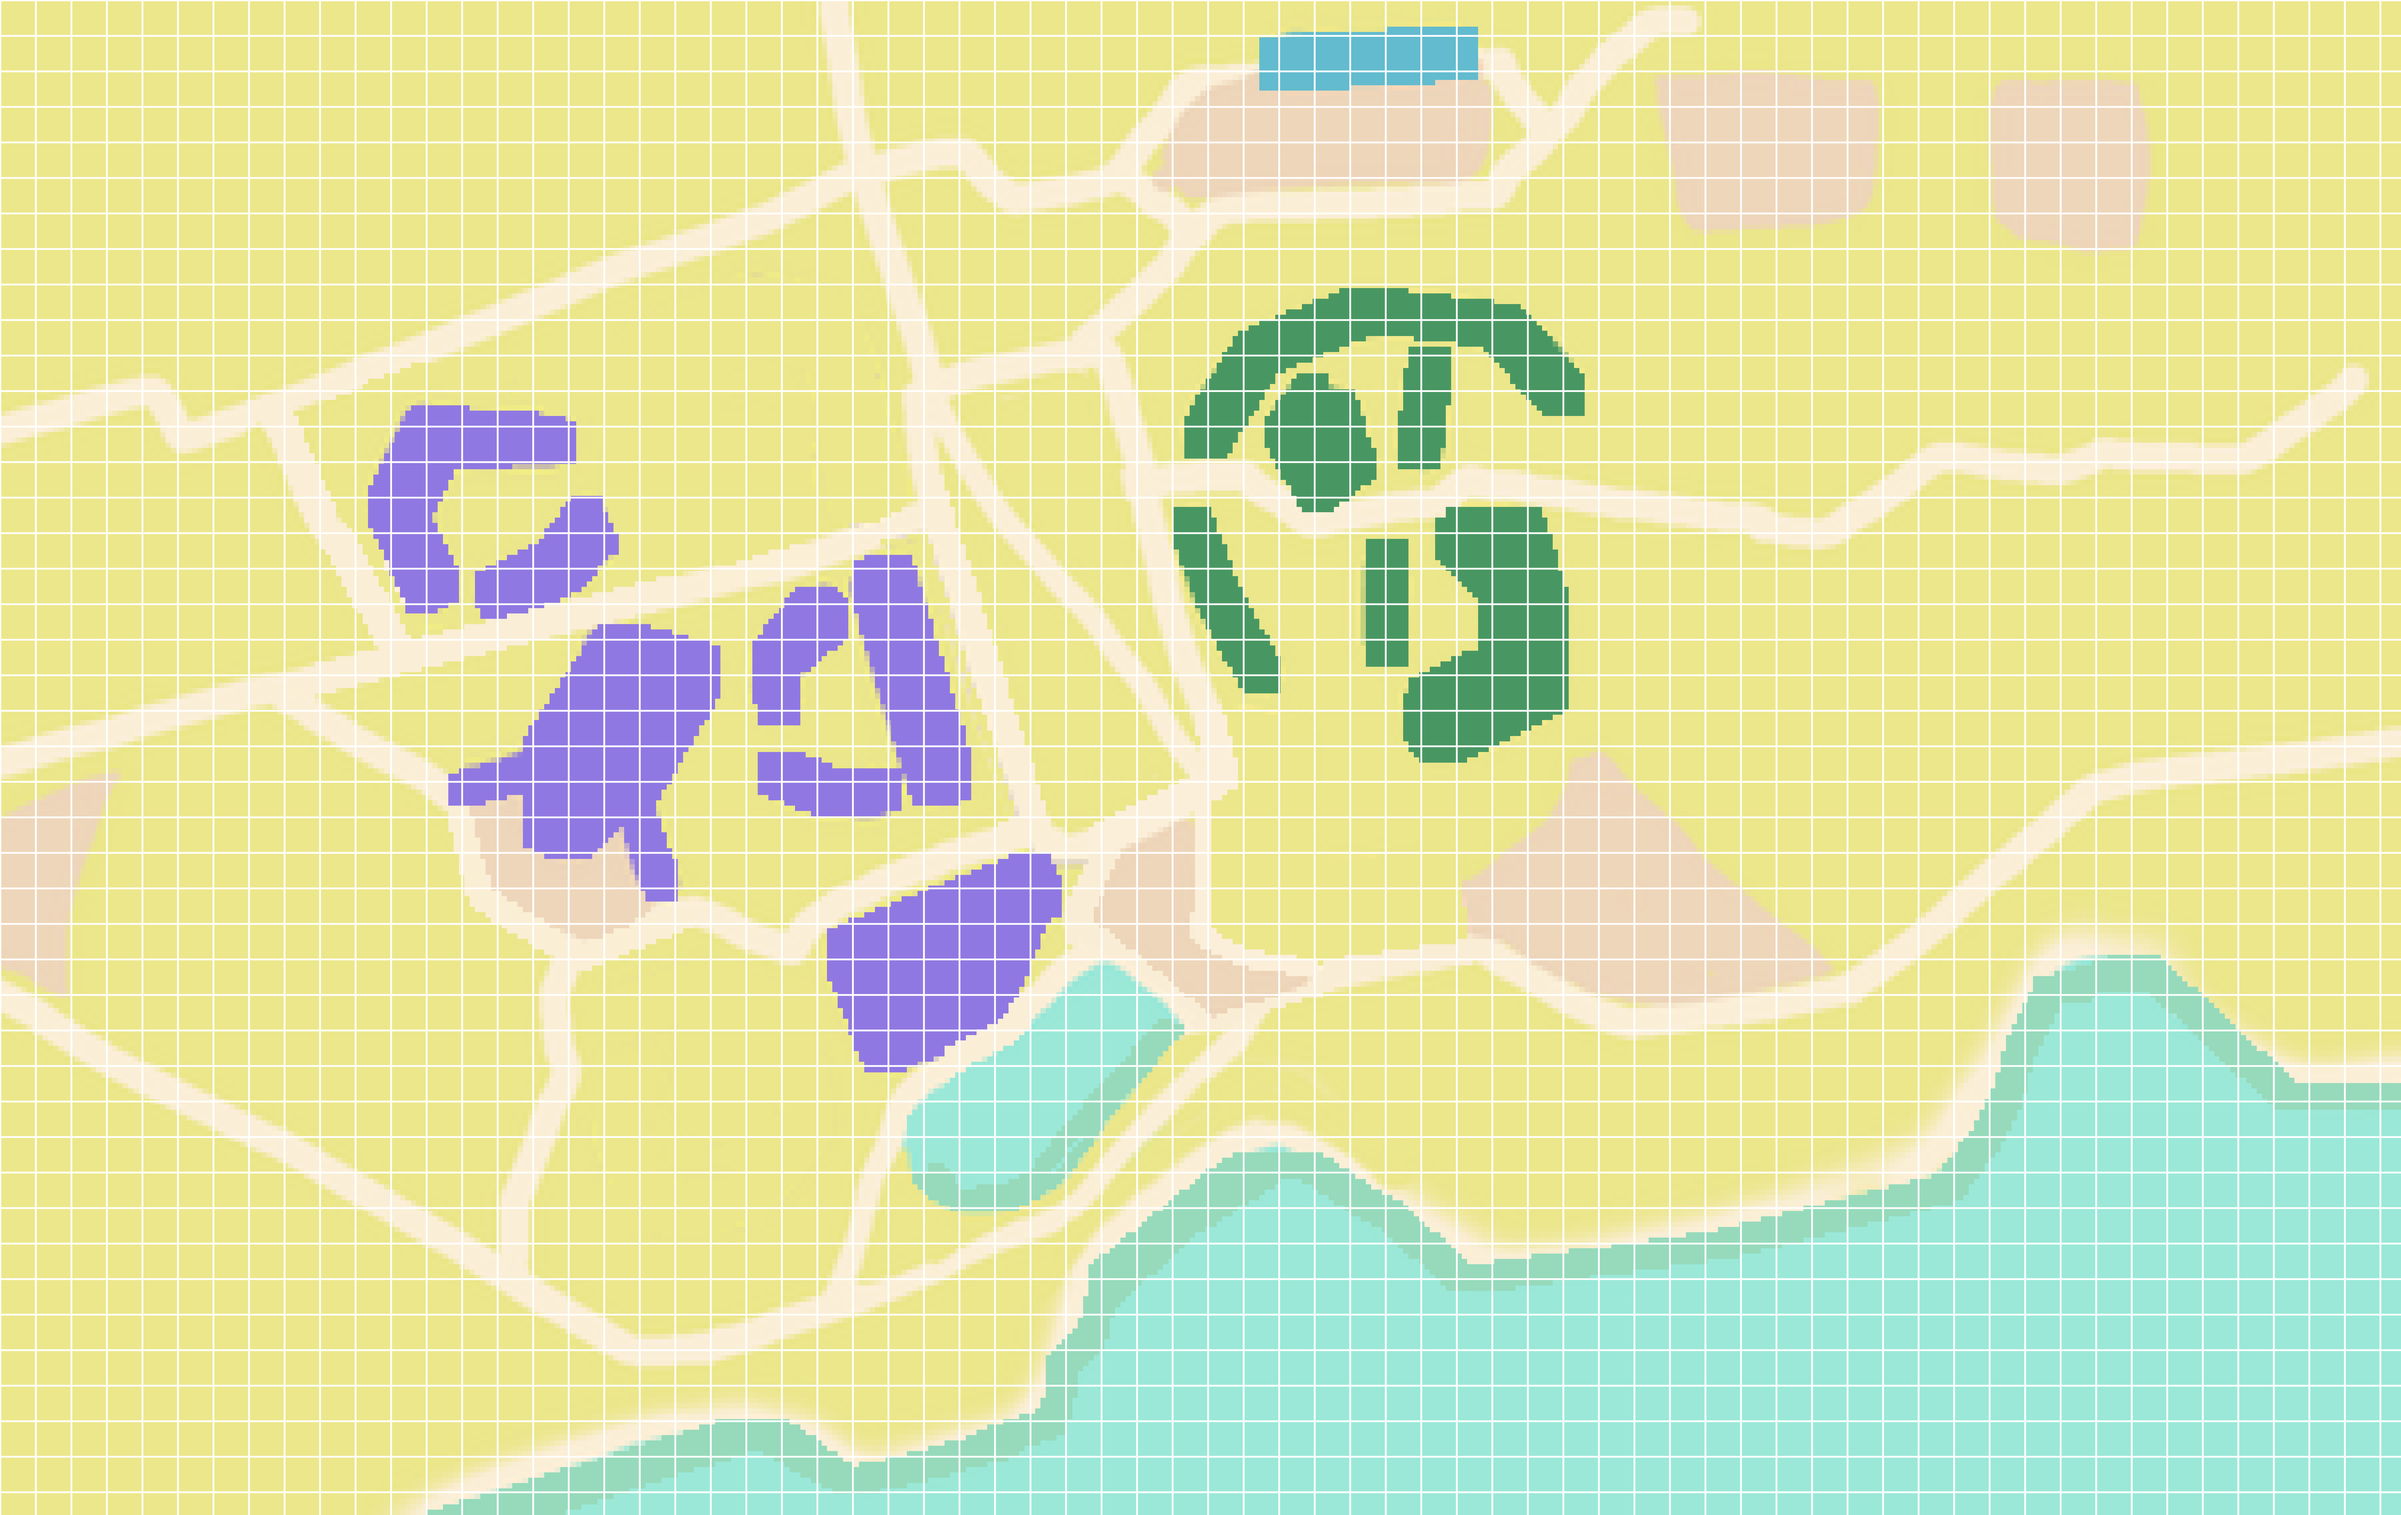
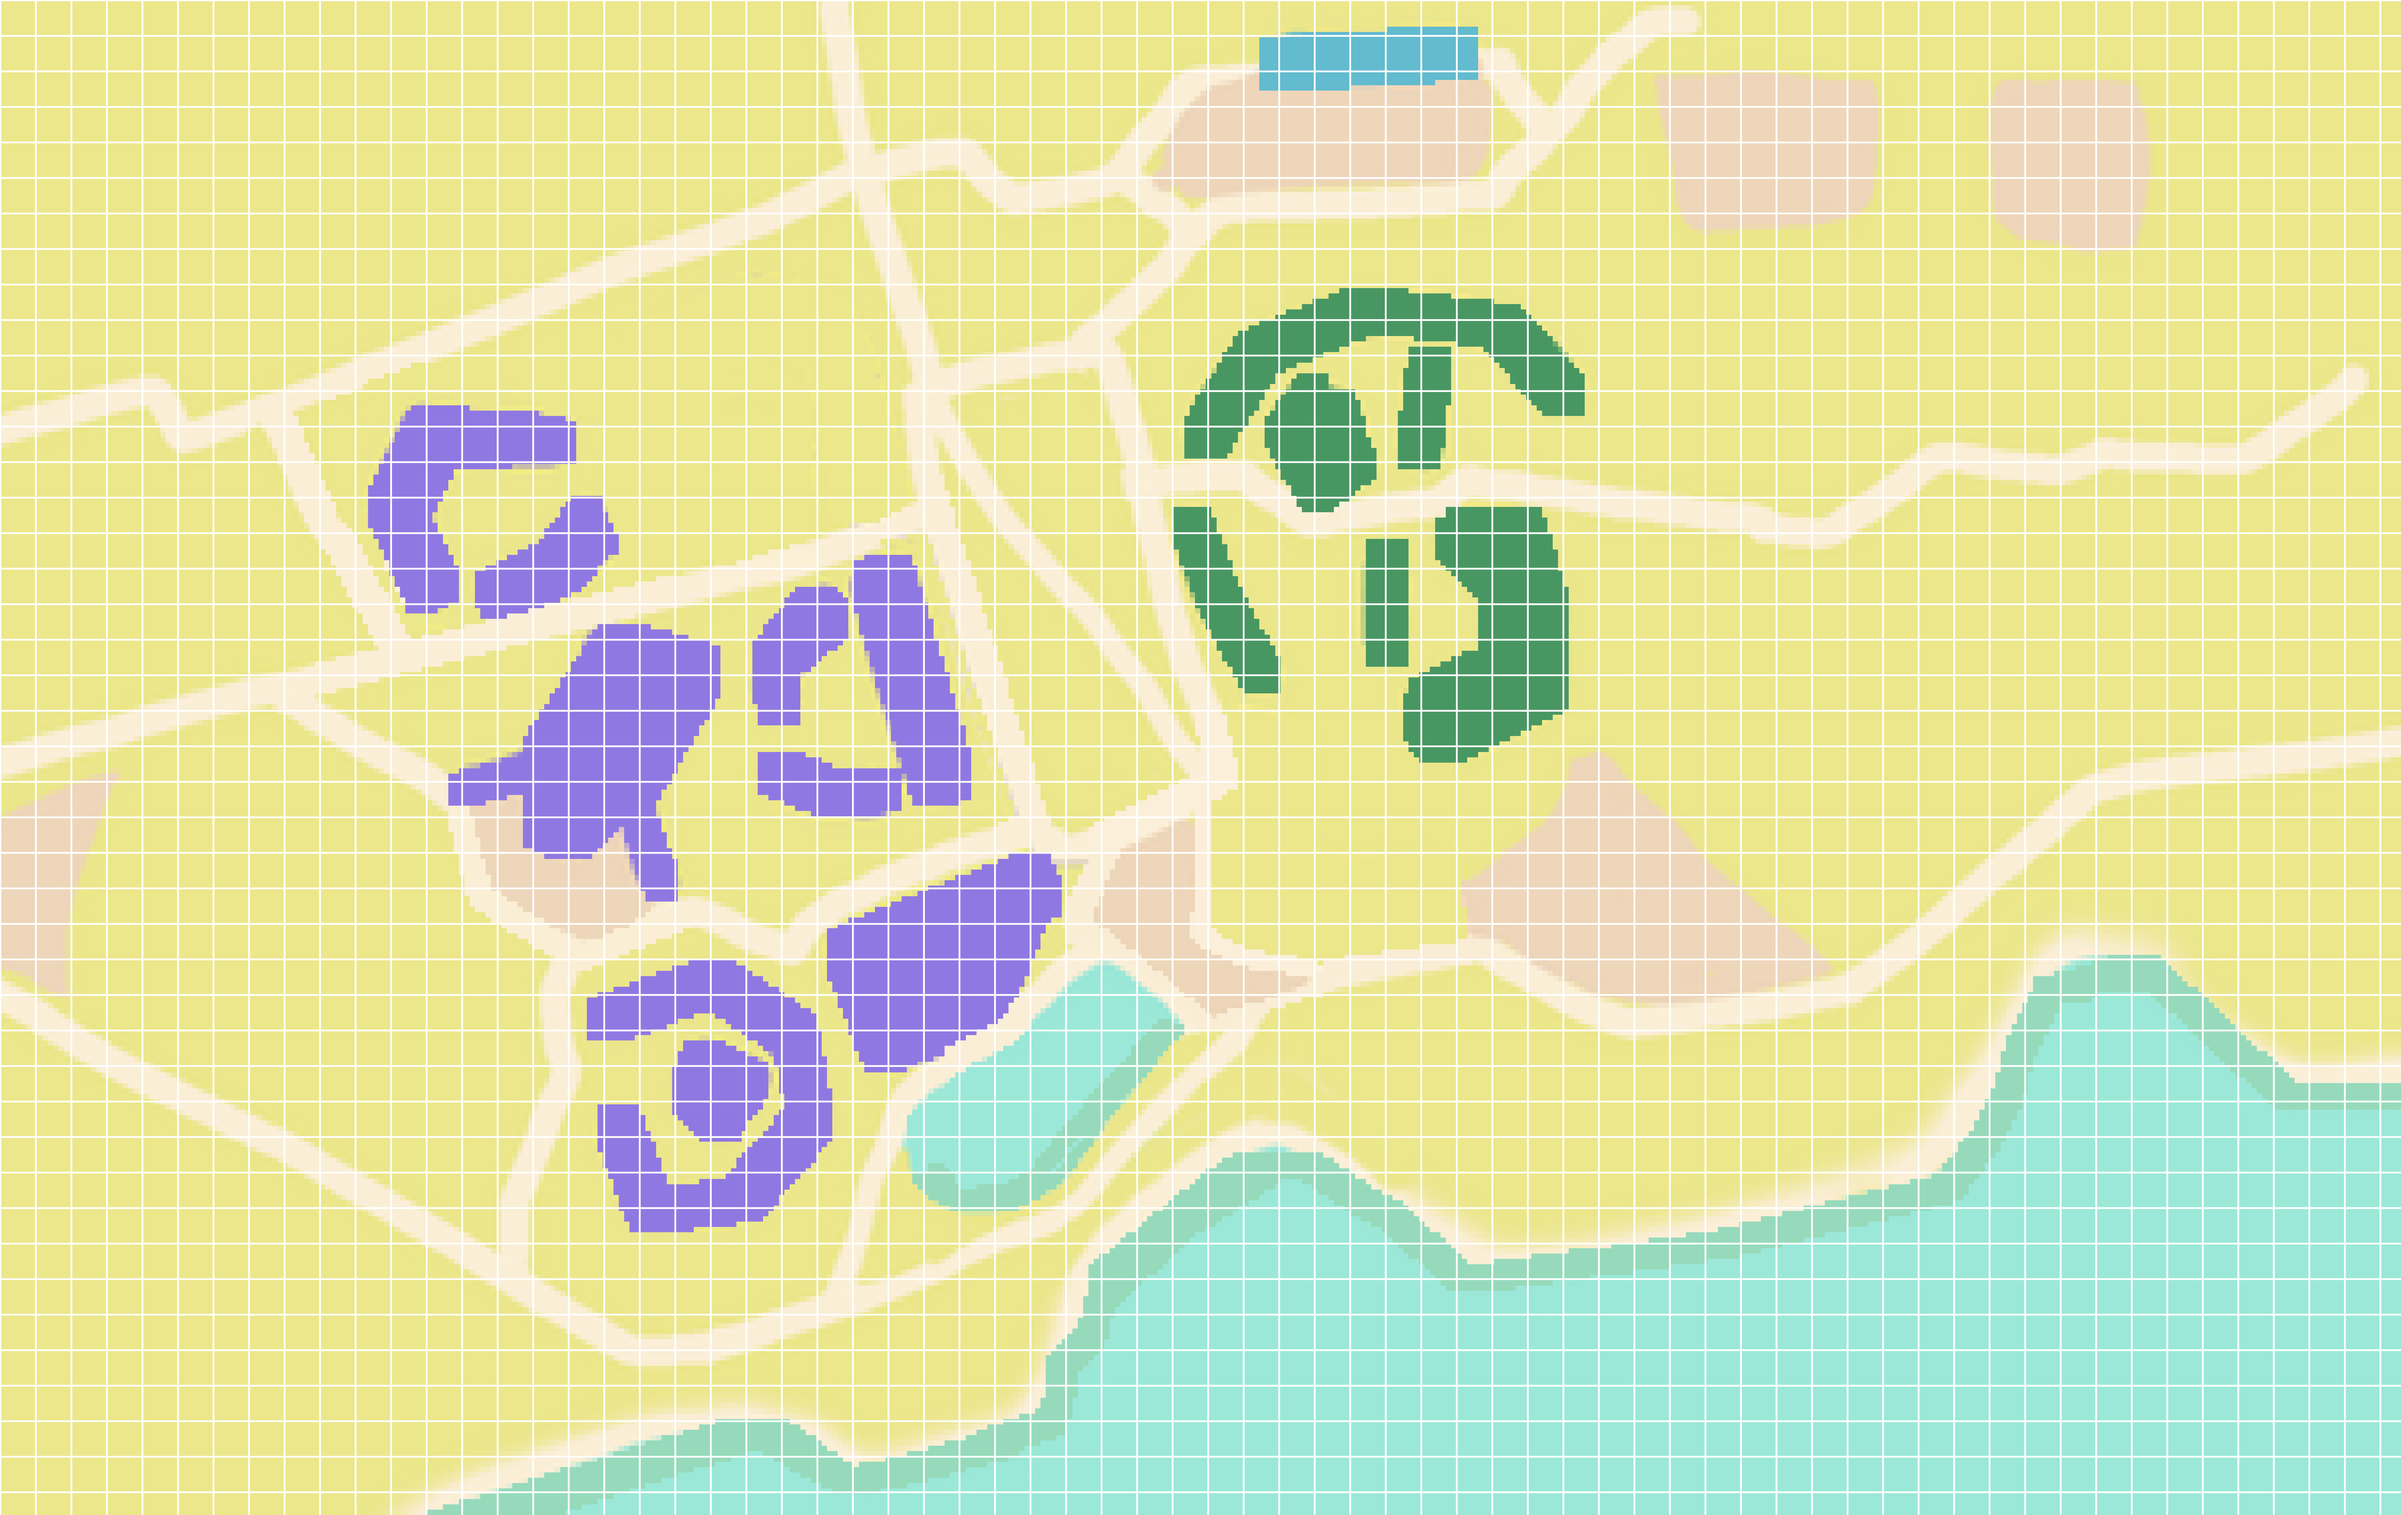
Testing Score Screen

Changed region(s): [[0.2185, 0.6237, 0.3434, 0.8108]]

diff --git a/core/src/com/mygdx/game/ScoreScreen.java b/core/src/com/mygdx/game/ScoreScreen.java
@@ -1,0 +1,131 @@
+package com.mygdx.game;
+
+import com.badlogic.gdx.Gdx;
+import com.badlogic.gdx.Screen;
+import com.badlogic.gdx.graphics.GL20;
+import com.badlogic.gdx.graphics.Texture;
+import com.badlogic.gdx.scenes.scene2d.Actor;
+import com.badlogic.gdx.scenes.scene2d.Stage;
+import com.badlogic.gdx.scenes.scene2d.ui.*;
+import com.badlogic.gdx.scenes.scene2d.utils.ChangeListener;
+import com.badlogic.gdx.utils.viewport.ScreenViewport;
+
+public class ScoreScreen implements Screen{
+
+    private Stage stage;
+    private Texture backgroundImage;
+
+    MyGdxGame parent;
+
+    public ScoreScreen(MyGdxGame gameLoop){
+
+        this.parent = gameLoop;
+        /// create stage and set it as input processor
+        stage = new Stage(new ScreenViewport());
+        Gdx.input.setInputProcessor(stage);
+        // Load the background image
+        backgroundImage = new Texture(Gdx.files.internal("certificate.png")); // Replace "bg.png" with the path to your background image
+
+        // Create an Image widget with the background texture
+        Image background = new Image(backgroundImage);
+        stage.addActor(background); // Add the background image to the stage
+    }
+
+    @Override
+    public void show() {
+        // Create a table that fills the screen. Everything else will go inside this table.
+        Table table = new Table();
+        table.setFillParent(true);
+//        table.setDebug(true);
+        stage.addActor(table);
+
+        // temporary until we have asset manager in
+        Skin skin = new Skin(Gdx.files.internal("skin/glassy-ui.json"));
+
+
+        Label titleLabel = new Label( "The End", skin ,"black");
+        table.add(titleLabel);
+        table.row();
+
+        // Names
+        String[] names = {"Study Score", "Wellbeing Score", "Overall Grade", "Thank you for Playing!"};
+        int study_score, wellbeing_score;
+        double grade;
+        study_score = 500;
+        wellbeing_score = 350;
+        grade = Math.min((Math.log(study_score*wellbeing_score)+40), 100);
+        double[] scores = {study_score, wellbeing_score, grade};
+        for (int i = 0; i<names.length; i++) {
+            String name = names[i];
+            if (i<names.length-1){
+                double score = scores[i];
+                Label nameLabel = new Label(String.format("%s: %.2f", name, score), skin, "default");
+                table.add(nameLabel).colspan(2).center().padBottom(10);
+            }else{
+                Label nameLabel = new Label(name, skin, "default");
+                table.add(nameLabel).colspan(2).center().padBottom(10);
+            }
+            table.row();
+        }
+
+        //create buttons
+        TextButton back = new TextButton("Back", skin, "small");
+
+        //add buttons to table
+        table.add(back).fillX().uniformX();
+        table.row().pad(10, 0, 10, 0);
+
+        // create button listeners
+        back.addListener(new ChangeListener() {
+            @Override
+            public void changed(ChangeEvent event, Actor actor) {
+                parent.toMainMenu();
+            }
+        });
+
+    }
+
+    @Override
+    public void render(float delta) {
+        // clear the screen ready for next set of images to be drawn
+        Gdx.gl.glClearColor(0f, 0f, 0f, 1);
+        Gdx.gl.glClear(GL20.GL_COLOR_BUFFER_BIT);
+
+        // tell our stage to do actions and draw itself
+        stage.act(Math.min(Gdx.graphics.getDeltaTime(), 1 / 30f));
+        stage.draw();
+    }
+
+    @Override
+    public void resize(int width, int height) {
+        stage.getViewport().update(width, height, true);
+        // Resize the background image to fill the entire screen
+        stage.getActors().first().setSize(width, height);
+    }
+
+
+    @Override
+    public void pause() {
+        // TODO Auto-generated method stub
+
+    }
+
+    @Override
+    public void resume() {
+        // TODO Auto-generated method stub
+
+    }
+
+    @Override
+    public void hide() {
+        // TODO Auto-generated method stub
+
+    }
+
+    @Override
+    public void dispose() {
+        // dispose of assets when not needed anymore
+        stage.dispose();
+    }
+
+}

diff --git a/core/src/com/mygdx/game/GameScreen.java b/core/src/com/mygdx/game/GameScreen.java
@@ -36,10 +36,10 @@ public class GameScreen implements Screen {
         entities.add(new Map(0,0, 2, 2)); //currently the map's sprite size is 3000 x 1896
         entities.add(new Player());
 
-        entities.add(new Library(1.3, 1.4,0.3, 0.3));
-        entities.add(new DuckPond(0.75,0.4, 0.25,0.3));
+        entities.add(new Library(1.35, 1.4,0.4, 0.4));
+        entities.add(new DuckPond(0.75,0.4, 0.35,0.25));
         entities.add(new Piazza(1.3,0.6, 0.2,0.4));
-        entities.add(new Accommodation(0.6,1.3, 0.2,0.2));
+        entities.add(new Accommodation(0.5,1.3, 0.25,0.25));
 
         updateInputSystem = new SystemUpdateInput();
         updateVelocityByInputSystem = new SystemUpdateVelocityByInput();

diff --git a/core/src/com/mygdx/game/MenuScreen.java b/core/src/com/mygdx/game/MenuScreen.java
@@ -159,7 +159,7 @@ public class MenuScreen implements Screen{
             @Override
             public void changed(ChangeEvent event, Actor actor) {
                 System.out.println("Credits");
-                parent.toCreditScreen();
+                parent.toScoreScreen();
             }
         });
 

diff --git a/core/src/com/mygdx/game/MyGdxGame.java b/core/src/com/mygdx/game/MyGdxGame.java
@@ -68,4 +68,8 @@ public class MyGdxGame extends Game {
 		this.setScreen(new TutorialScreen(this));
 	}
 
+	public void toScoreScreen(){
+		this.setScreen(new ScoreScreen(this));
+	}
+
 }
